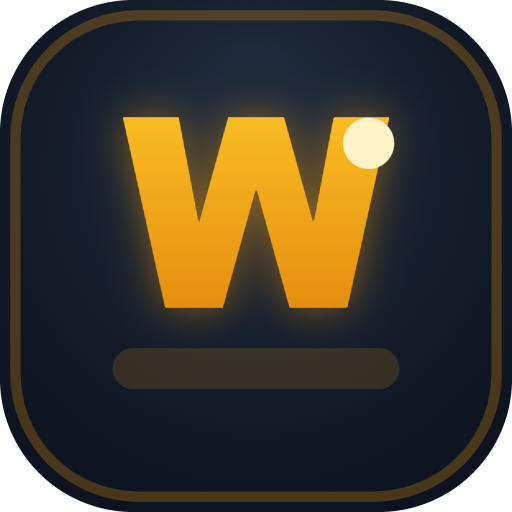
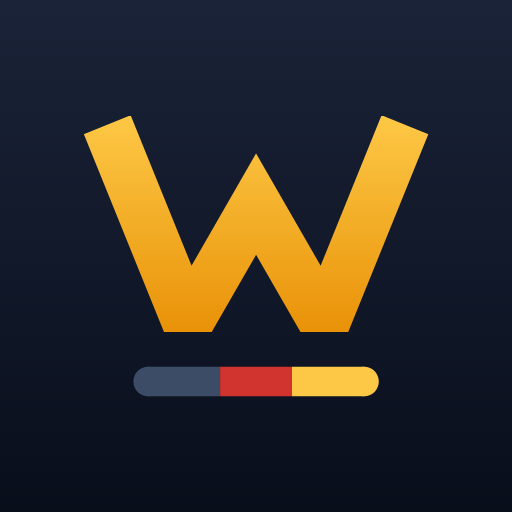
Новые иконки: отдельные для рабочего стола и для маски
Прежний набор состоял из одного файла, объявленного и как «any», и как
«maskable». В нём был запечён скруглённый кант: система скругляла его
второй раз, а при маскировании обрезала. Значок при этом тонул в
собственном свечении.

Теперь их четыре, по два размера на каждое назначение:
  any       — содержимое занимает две трети стороны
  maskable  — половину, чтобы обрезка по кругу не задела букву

Рисунок собирает tools/make-icons.ps1, а не графический редактор: одна и
та же композиция нужна в двух пропорциях, и повторять её руками — верный
способ развести версии. Буква W выводится широким пером с угловым
стыком, концы срезаются по границе буквы горизонтально; ниже флажок
тремя полосами, где чёрная заменена сланцевой — настоящая на тёмном фоне
исчезает. Проверено, что содержимое маскируемых иконок укладывается в
безопасный круг: 52 и 53 процента ширины при допустимых восьмидесяти.

Заодно фон полностью залит: скруглять и обрезать теперь только системе.

diff --git a/sw.js b/sw.js
@@ -11,7 +11,7 @@
  * иначе у пользователей останется старый кэш.
  */
 
-const APP_VERSION = 'v68';
+const APP_VERSION = 'v69';
 const CACHE_NAME = `wortschatz-${APP_VERSION}`;
 
 const PRECACHE_URLS = [
@@ -84,7 +84,9 @@ const PRECACHE_URLS = [
 
     // Иконки
     'assets/icon-192.png',
-    'assets/icon-512.png'
+    'assets/icon-512.png',
+    'assets/icon-maskable-192.png',
+    'assets/icon-maskable-512.png'
 ];
 
 // --- Установка: складываем всё необходимое в кэш ---

diff --git a/js/version.js b/js/version.js
@@ -12,4 +12,4 @@
  * Не путать с APP_VERSION в sw.js: та отвечает за сброс кэша и поднимается
  * при любом изменении файлов, даже невидимом.
  */
-export const VERSION = '1.9.2';
+export const VERSION = '2.0';
